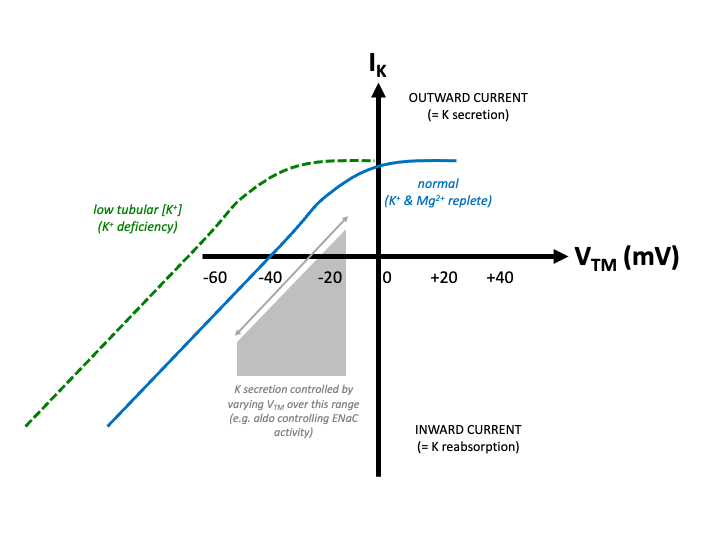
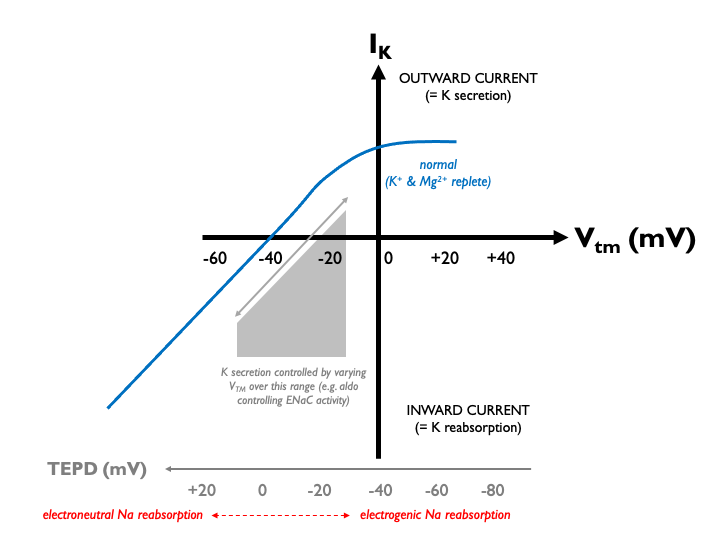
Updated Oh Mg (part 2)

diff --git a/content/post/008-Mg-and-potassium.html b/content/post/008-Mg-and-potassium.html
@@ -23,28 +23,29 @@ draft: FALSE
 <li>Distal Na and K transport and the transepithelial voltage</li>
 </ul>
 <p>Hypomagnesaemia: easy to find if you go looking for it; usually left well alone. (And often caused by a <a href="/post/ppis-and-magnesium/index.html">drug</a>.)</p>
-<p>But sometimes hypomagnesaemia is worth paying attention to if it is contributing to another electrolyte disorder such as hypocalcaemia or hypokalaemia. It is widely recognised that Mg deficiency can cause refractory hypokalaemia. But what is the mechanism? And why do we need to know?</p>
+<p>But sometimes hypomagnesaemia is worth paying attention to if it is contributing to another electrolyte disorder such as hypocalcaemia or hypokalaemia. Any medical student can tell you that Mg deficiency can cause refractory hypokalaemia. But what is the mechanism? And why do we need to know the mechanism?</p>
 </div>
 <div id="why-does-low-mg-cause-low-k" class="section level2">
 <h2>Why does low Mg cause low K?</h2>
 <div id="mechanism-1---romk" class="section level3">
 <h3>Mechanism 1 - ROMK</h3>
-<p>Renal K secretion occurs predominantly through two channels: ROMK (mediating Na/K exchange in the distal nephron) and BK channels (mediating flow-dependent K secretion). <a href="https://pubmed.ncbi.nlm.nih.gov/17804670">Historically</a>, Mg-depletion was thought to cause renal K wasting, predominantly because of its role in modulating ROMK channel function.</p>
-<p>ROMK - like many other K channels - is <a href="https://pubmed.ncbi.nlm.nih.gov/8569061">inwardly-rectifying</a>: that is, it allows K ions to flow into the cell more readily than out of the cell. This seems like an odd property for a channel that is primarily engaged in secreting K into the tubular fluid. So why has it evolved thus?</p>
-<p>To understand why, we should first consider the critical role of the electrical driving force for K transport in the distal nephron. Potassium secretion in the distal nephron is regulated by the transepithelial potential difference (<code>TEPD</code>). This is, in turn, determined by sodium reabsorption through the epithelial sodium channel, ENaC. When sodium reabsorption is stimulated (e.g. by aldosterone), then the TEPD becomes more lumen-negative, favouring K efflux. When sodium reabsorption is inhibited (e.g. by <a href="https://pubmed.ncbi.nlm.nih.gov/943768">amiloride</a>) then the opposite happens: the TEPD becomes positive and K secretion is opposed.</p>
-<p>Let’s take a closer look, by considering the current-voltage relationship for ROMK. As this was classically determined in <em>Xenopus</em> oocytes, current through the channel is usually plotted against <code>transmembrane voltage</code>, V<sub>tm</sub>, the potential difference across the cell membrane. V<sub>tm</sub> is typically negative: the interior of the cell is negative relative to the exterior.</p>
+<p>Renal K<sup>+</sup> secretion occurs predominantly through two channels: ROMK (mediating Na/K exchange in the distal nephron) and BK channels (mediating flow-dependent K secretion). <a href="https://pubmed.ncbi.nlm.nih.gov/17804670">Historically</a>, Mg-depletion was thought to cause renal K wasting, predominantly because of its role in modulating ROMK channel function.</p>
+<p>Like many other K<sup>+</sup> channels, ROMK is <a href="https://pubmed.ncbi.nlm.nih.gov/8569061">inwardly-rectifying</a>: that is, it allows K<sup>+</sup> ions to flow into the cell more readily than out of the cell. This seems like an odd property for a channel that is primarily engaged in secreting K<sup>+</sup> into the tubular fluid. So why has it evolved thus?</p>
+<p>To understand that, we should first consider the critical role of the electrical driving force for K<sup>+</sup> transport in the distal nephron. Potassium secretion in the distal nephron is regulated by the transepithelial potential difference (<code>TEPD</code>). This is, in turn, determined by sodium reabsorption through the epithelial sodium channel, ENaC. When sodium reabsorption is stimulated (e.g. by aldosterone), then the TEPD becomes more lumen-negative, favouring K efflux. When sodium reabsorption is inhibited (e.g. by <a href="https://pubmed.ncbi.nlm.nih.gov/943768">amiloride</a>) then the opposite happens: the TEPD becomes positive and K secretion is opposed.</p>
+<p>Let’s take a closer look, by considering the current-voltage relationship for ROMK. As this was first determined in <em>Xenopus</em> oocytes, current through the channel is usually plotted against <code>transmembrane voltage</code>, V<sub>tm</sub>, the potential difference across the cell membrane. V<sub>tm</sub> is typically negative: the interior of the cell is negative relative to the exterior.</p>
+<p><img src="/images/Mg1.png" /></p>
 <p>I usually get confused at this point because of double-negatives. As the TEPD becomes <em>more</em> lumen-negative (e.g. in sodium reabsorption), the V<sub>tm</sub> across the apical cell membrane becomes <em>less</em> negative as the cell-external and cell-internal potentials become closer. So when looking at these I-V plots, we must remember that a progressively <em>negative</em> V<sub>tm</sub> equates to a progressivly <em>less negative</em> (or more positive) TEPD.</p>
-<p>Under normal physiological conditions, K secretion is close to zero in the middle of the normal operating range of the TEPD (<a href="https://pubmed.ncbi.nlm.nih.gov/4010149">around -20 mV</a> in the late distal tubule). Therefore aldosterone - via its effects on ENaC and the TEPD - can exert close control over renal K excretion:</p>
-<p><img src="/images/Mg1.png" style="width:60.0%" /></p>
-<p>In K deficiency, the current-voltage relationship for ROMK <a href="https://pubmed.ncbi.nlm.nih.gov/21030597">shifts to the left</a>, because a low extracellular (tubular) [K<sup>+</sup>] increases the driving force for K efflux:</p>
-<p><img src="/images/Mg2.png" style="width:60.0%" /></p>
-<p>This could have the unfortunate paradoxical effect of driving unwanted K secretion. However, evolution has thoughtfully endowed ROMK with inward rectification in order that K efflux in this context is limited. And what is the mechanism of this effect? Enter Mg<sup>2+</sup>. At positive V<sub>tm</sub>, Mg<sup>2+</sup> ions bind to and <a href="https://pubmed.ncbi.nlm.nih.gov/7915826">block the channel pore</a>. Therefore in profound Mg deficiency, when this property is lost, ROMK channels are left open and K can flood out, exacerbating any pre-existing hypokalaemia:</p>
-<p><img src="/images/Mg3.png" style="width:60.0%" /></p>
+<p>Under normal physiological conditions, K<sup>+</sup> secretion is close to zero in the middle of the normal operating range of the TEPD (<a href="https://pubmed.ncbi.nlm.nih.gov/4010149">around -20 mV</a> in the late distal tubule). Therefore aldosterone - via its effects on ENaC and the TEPD - can exert close control over renal K excretion:</p>
+<p><img src="/images/Mg2.png" /></p>
+<p>In K<sup>+</sup> deficiency, the lumenal [K<sup>+</sup>] falls, so that for any given V<sub>tm</sub>, the driving force for K<sup>+</sup> efflux is increased. Therefore, the current-voltage relationship for ROMK <a href="https://pubmed.ncbi.nlm.nih.gov/21030597">shifts to the left</a>:</p>
+<p><img src="/images/Mg3.png" /></p>
+<p>This could have the unfortunate paradoxical effect of driving unwanted K<sup>+</sup> secretion. However, evolution has thoughtfully endowed ROMK with inward rectification in order that K<sup>+</sup> efflux in this context is limited. And what is the mechanism of this effect? Enter Mg<sup>2+</sup>. At positive V<sub>tm</sub>, Mg<sup>2+</sup> ions bind to and <a href="https://pubmed.ncbi.nlm.nih.gov/7915826">block the channel pore</a>. Therefore in profound Mg<sup>2+</sup> deficiency, when this property is lost, ROMK channels are left open and K<sup>+</sup> can flood out, exacerbating any pre-existing hypokalaemia:</p>
+<p><img src="/images/Mg4.png" /></p>
 </div>
 <div id="mechanism-2---its-the-dct-stupid" class="section level3">
 <h3>Mechanism 2 - It’s the DCT, stupid!</h3>
-<p>So far, so good. That all makes sense. However, of course we now know that the main tubular player in determining net renal K excretion is not ROMK, but the thiazide-sensitive NaCl co-transporter, NCC. NCC sits in the distal convoluted tubule, <em>upstream</em> of ENaC and ROMK in the collecting ducts. First come, first served and so NCC activity determines the balance between electroneutral (K-sparing) sodium reabsorption and electrogenic (K-wasting) sodium reabsorption because ENaC can only act on whatever sodium NCC leaves behind in the tubular fluid. NCC activity is therefore the knob that homeostatic mechanisms twiddle when attempting to achieve potassium balance. NCC activity (controlled by NCC phosphorylation) is modulated directly in response to changes in K homeostasis (<a href="https://pubmed.ncbi.nlm.nih.gov/23633048" class="uri">https://pubmed.ncbi.nlm.nih.gov/23633048</a>).</p>
-<p>So wouldn’t any mechanism controlling renal K excretion be more likely to affect NCC activity? Well, it appears that this <a href="https://pubmed.ncbi.nlm.nih.gov/31364380">is indeed the case</a>. Usually, K<sup>+</sup> depletion stimulates expression and phosphorylation of NCC, for the reasons outlined immediately above. In the presence of Mg<sup>2+</sup> deficiency however, this response is almost completely abolished (at least in rodents).</p>
+<p>So far, so good. That all makes sense. However, of course we now know that the main tubular player in determining net renal K excretion is not ROMK, but the thiazide-sensitive NaCl co-transporter, NCC. NCC sits in the distal convoluted tubule, <em>upstream</em> of ENaC and ROMK in the collecting ducts. First come, first served and so NCC activity determines the balance between electroneutral (K-sparing) sodium reabsorption and electrogenic (K-wasting) sodium reabsorption because ENaC can only act on whatever sodium NCC ‘leaves behind’ in the tubular fluid. NCC activity is therefore the knob that homeostatic mechanisms twiddle when attempting to achieve potassium balance. NCC activity (controlled by NCC phosphorylation) is modulated <a href="https://pubmed.ncbi.nlm.nih.gov/23633048">directly</a> in response to changes in K homeostasis.</p>
+<p>So wouldn’t any mechanism controlling renal K<sup>+</sup> excretion be more likely to affect NCC activity? Well, it appears that this <a href="https://pubmed.ncbi.nlm.nih.gov/31364380">is indeed the case</a>. Usually, K<sup>+</sup> depletion stimulates expression and phosphorylation of NCC, for the reasons outlined immediately above. In the presence of Mg<sup>2+</sup> deficiency however, this response is almost completely abolished (at least in rodents).</p>
 </div>
 </div>
 <div id="summary" class="section level2">
@@ -55,5 +56,5 @@ draft: FALSE
 </div>
 <div id="clinical-implications" class="section level2">
 <h2>Clinical implications</h2>
-<p>The main clinical implication is that one might want to check for - and correct - Mg deficiency in any treatment-refractory hypokalaemia. There is also an implication for how we interpret urinary electrolytes in combined Mg and K deficiency. When faced with hypokalaemia, there is a reflex urge to check urinary [K<sup>+</sup>] and calculate a TTKG. However, in the context of Mg deficiency this could be misleading, because we now know that whatever the initial cause of the K-depletion, there is likely to be urinary K-wasting because of the Mg-deficiency. Better, therefore, to rely on clinical judgement to work out the likely cause and defer any urinary electrolyte testing until after the Mg deficiency has been corrected.</p>
+<p>The main clinical implication is that one might want to check for - and correct - Mg deficiency in any treatment-refractory hypokalaemia. There is also an implication for how we interpret urinary electrolytes in combined Mg<sup>2+</sup> and K<sup>+</sup> deficiency. When faced with hypokalaemia, there is a reflex urge to check urinary [K<sup>+</sup>] and perhapps even calculate a TTKG. However, in the context of Mg<sup>2+</sup> deficiency this could be misleading, because we now know that whatever the initial cause of the K-depletion, there is likely to be urinary K-wasting because of the Mg-deficiency. Better, therefore, to rely on clinical judgement to work out the likely cause and defer any urinary electrolyte testing until after the Mg<sup>2+</sup> deficiency has been corrected.</p>
 </div>

diff --git a/content/post/009-do-i-need-to-know-this.html b/content/post/009-do-i-need-to-know-this.html
@@ -16,12 +16,15 @@ draft: TRUE
 <div id="in-this-post" class="section level2">
 <h2>In this post…</h2>
 <ul>
-<li>How to assess free water balance in the dysnatraemias<br />
-</li>
-<li>How to factor in solute / cation balance</li>
+<li>Why we need to know about renal physiology</li>
 </ul>
 <p>I enjoy teaching and talking about renal physiology. However there is a point around 20 minutes into every teaching session when I can feel a sense of polite detachment floating …</p>
-<p>Whenever I am in the midst of a teaching session on renal physiology, I am frequently transported back to</p>
 <p>All the things on my slide PLUS - knowing the mechanism gives confidence in it being true (give solute restriction in DI as example).</p>
-<p>Also do a post on the 5 implications of the UOsm equation. When UOsm is fixed (ADH, furosemide, DI) - then V set by OL. Move from appendix of nephromaths to blog post and add in DI.</p>
+<p>THings on slide were:<br />
+- electrolyte disorders are renal disorders<br />
+- other people will ask you about this<br />
+- easy to get confused<br />
+- dangerous to blindly crunch numbers (prinicples more important )<br />
+- no RCTs and not likely to be<br />
+- best bit of renal medicine!</p>
 </div>

diff --git a/content/post/011-E-mc-2.html b/content/post/011-E-mc-2.html
@@ -22,6 +22,7 @@ draft: TRUE
 </li>
 <li>How to factor in solute / cation balance</li>
 </ul>
+<p>Also do a post on the 5 implications of the UOsm equation. When UOsm is fixed (ADH, furosemide, DI) - then V set by OL. Move from appendix of nephromaths to blog post and add in DI.</p>
 </div>
 <div id="app2" class="section level1">
 <h1>Appendix 2 - corollaries of urine osmolality equation</h1>
